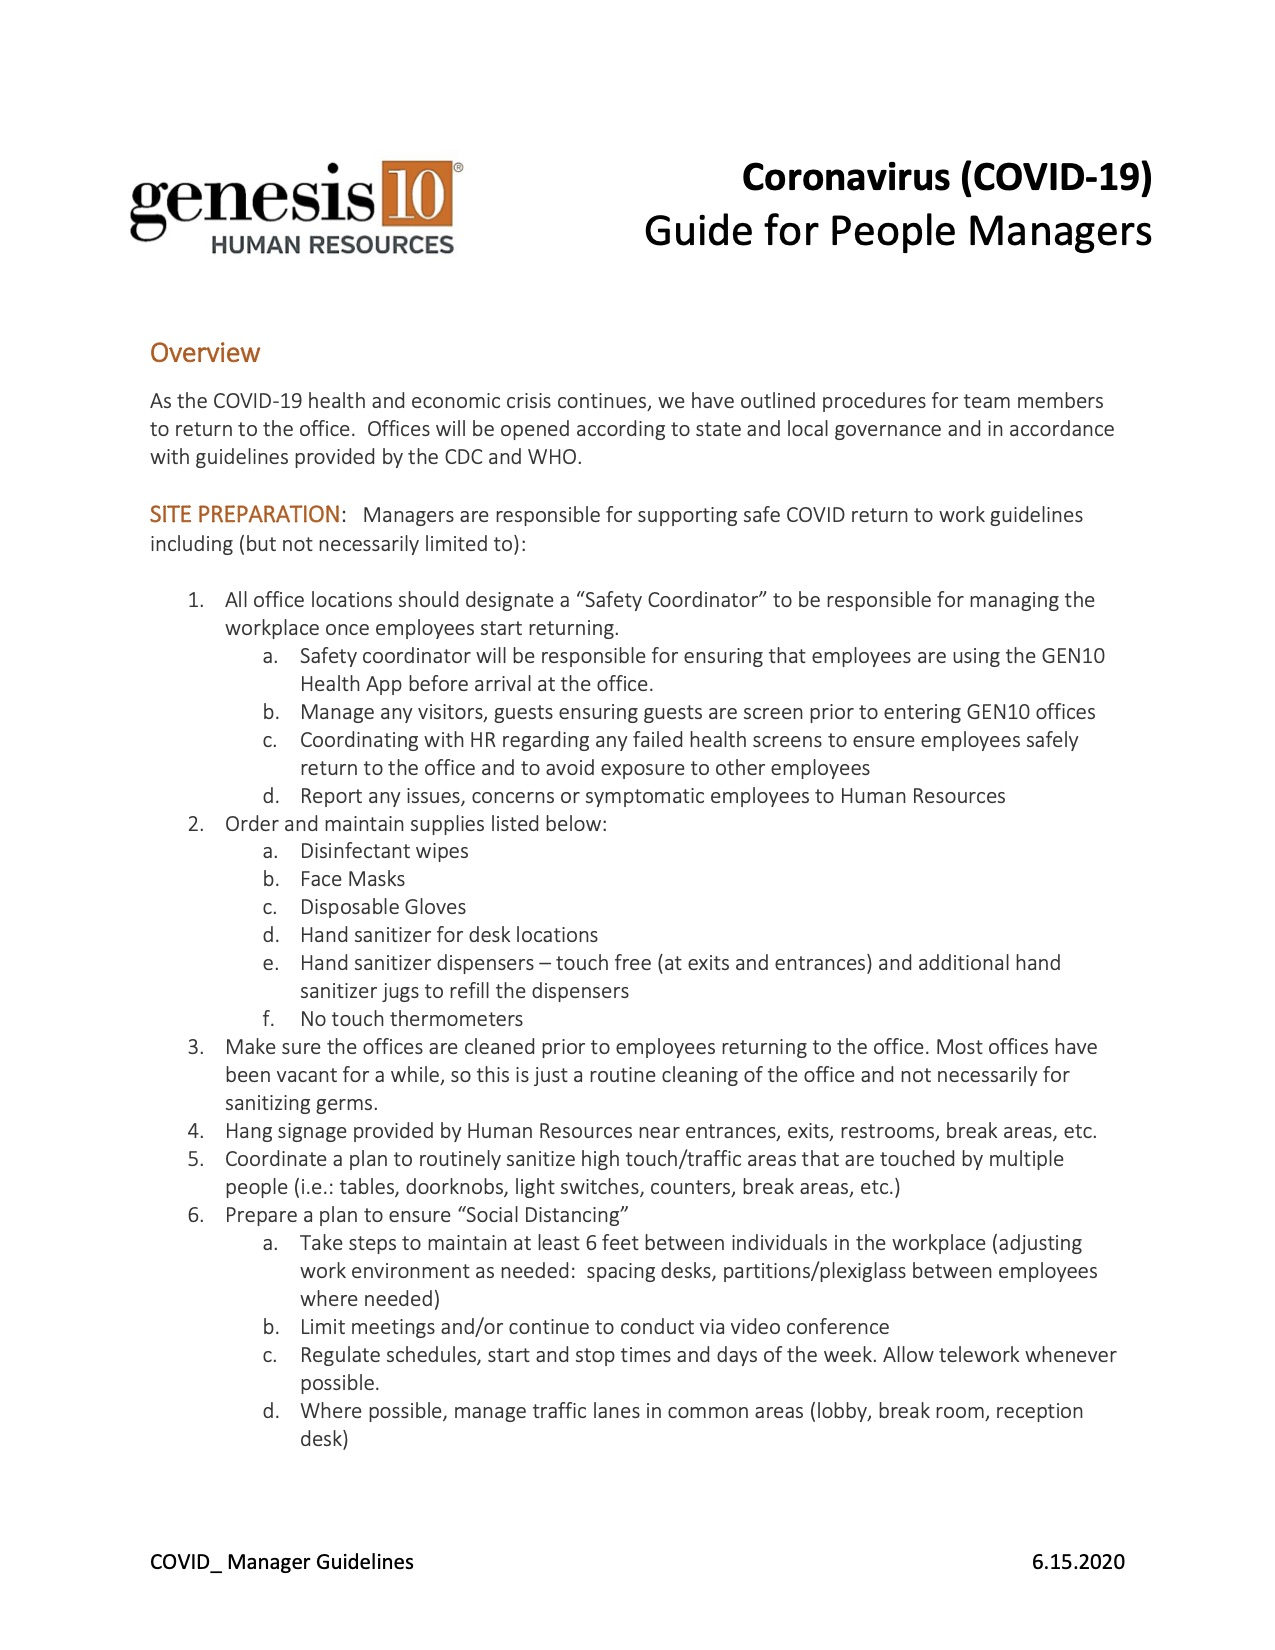
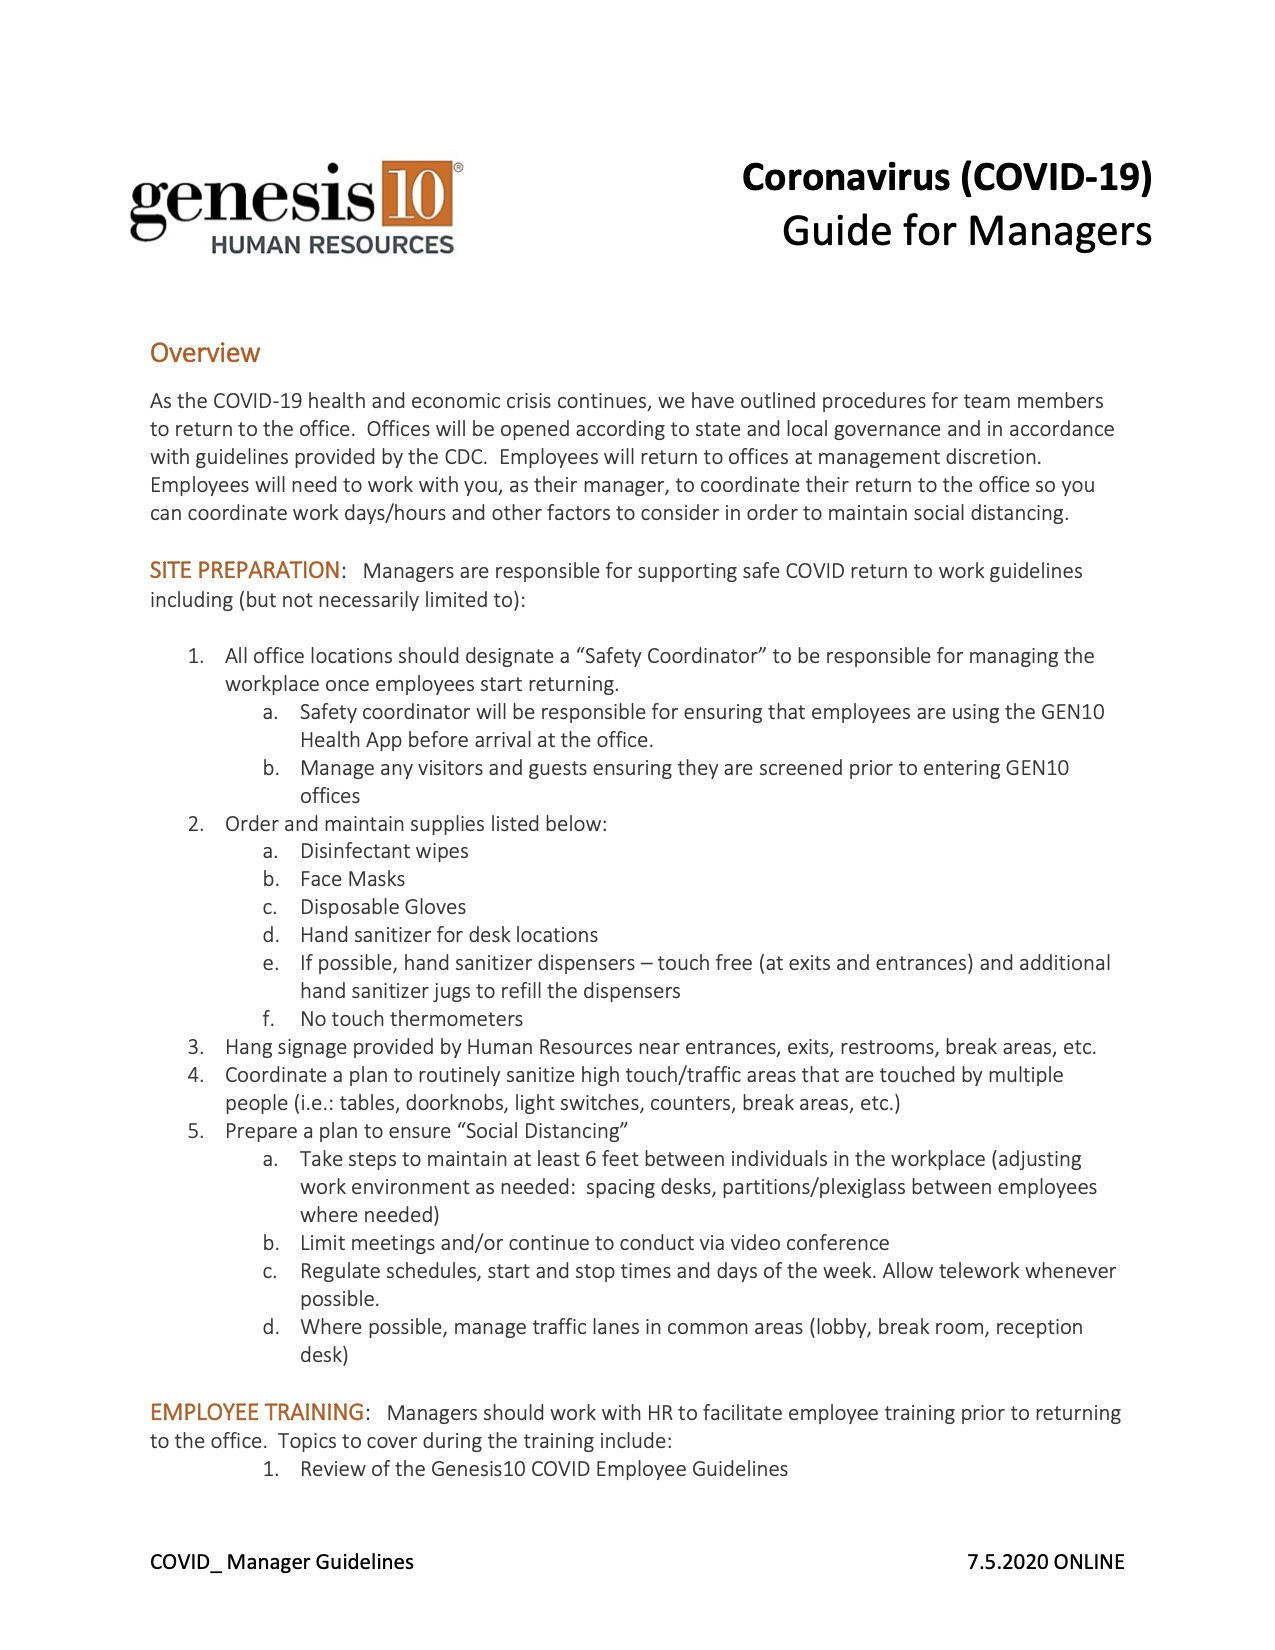
new manager guidelines

diff --git a/Elephant/src/main/resources/static/adminLogin.html b/Elephant/src/main/resources/static/adminLogin.html
@@ -903,16 +903,13 @@
         <!-- Admin Guidelines Div -->
                 <div class="container" id="adminGuidelinesDiv">
                     <div class="row">   
-                        <img class="guidelines" src="images/manager1.jpg" alt="Coronavirus Guide for People Managers" width="100%" style="margin-left: auto; margin-right: auto">
+                        <img class="guidelines" src="images/manager1.jpg" alt="Coronavirus Guide for Managers" width="100%" style="margin-left: auto; margin-right: auto">
                     </div>
                     <div class="row">   
-                        <img class="guidelines" src="images/manager2.jpg" alt="Coronavirus Guide for People Managers" width="100%" style="margin-left: auto; margin-right: auto">
+                        <img class="guidelines" src="images/manager2.jpg" alt="Coronavirus Guide for Managers" width="100%" style="margin-left: auto; margin-right: auto">
                     </div>   
                     <div class="row">   
-                        <img class="guidelines" src="images/manager3.jpg" alt="Coronavirus Guide for People Managers" width="100%" style="margin-left: auto; margin-right: auto">
-                    </div> 
-                    <div class="row">   
-                        <img class="guidelines" src="images/manager4.jpg" alt="Coronavirus Guide for People Managers" width="100%" style="margin-left: auto; margin-right: auto">
+                        <img class="guidelines" src="images/manager3.jpg" alt="Coronavirus Guide for Managers" width="100%" style="margin-left: auto; margin-right: auto">
                     </div> 
                 </div>
         
